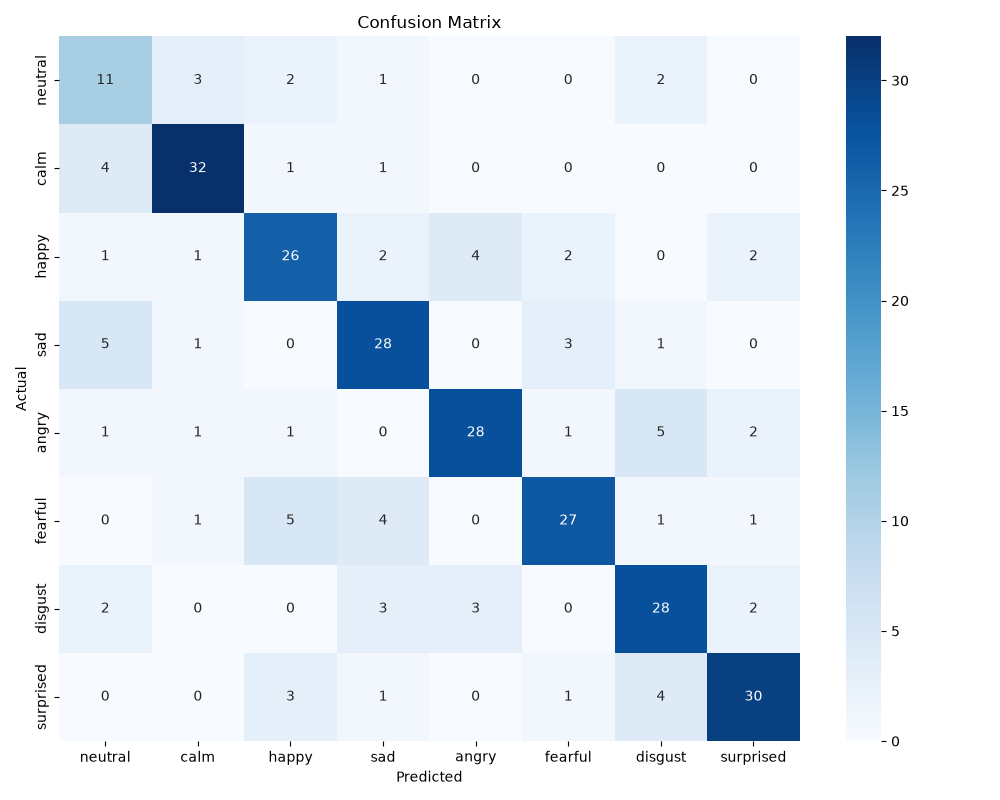
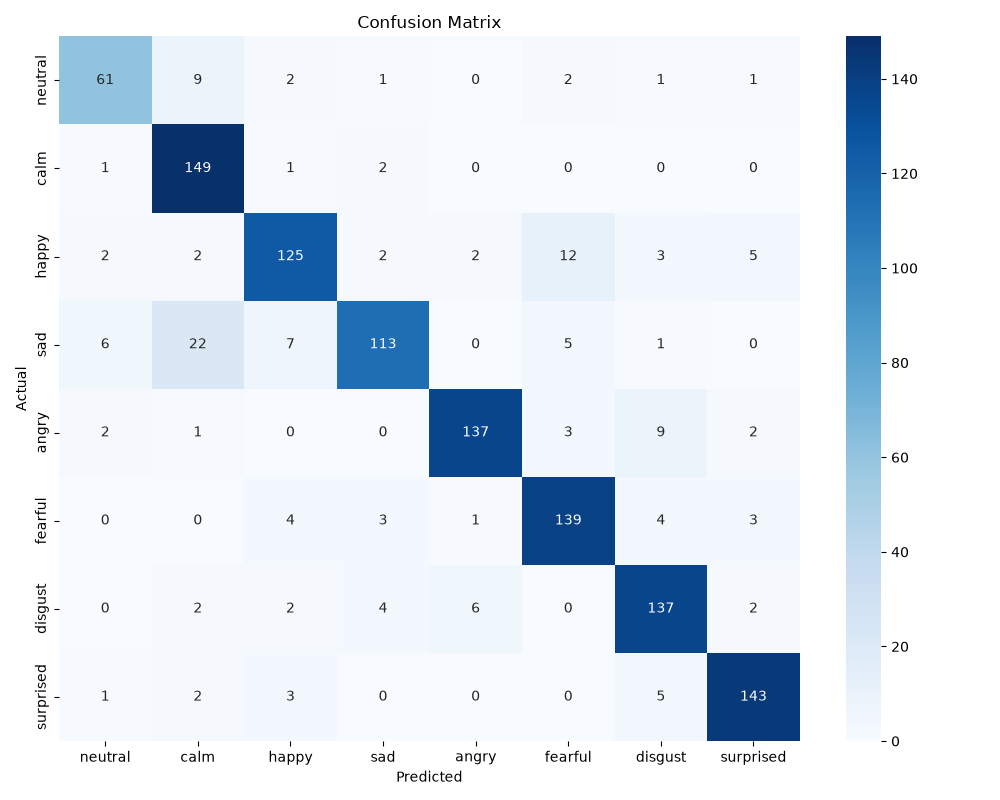
Optimize ensemble model with data augmentation - 87.15% accuracy

diff --git a/train.py b/train.py
@@ -11,9 +11,8 @@ import os
 import librosa
 
 # ── 1. Feature Extraction (Richer Features: 400+) ────────────────────────
-def extract_rich_features(file_path):
+def extract_rich_features(audio, sr):
     try:
-        audio, sr = librosa.load(file_path, duration=3.0, offset=0.5)
         features = []
         
         # 1. MFCCs mean + std + delta + delta2 → 40×4 = 160
@@ -70,19 +69,29 @@ def extract_rich_features(file_path):
 
         return np.array(features)
     except Exception as e:
-        print(f"Error processing {file_path}: {e}")
+        print(f"Error extracting features: {e}")
         return None
 
+def add_noise(data):
+    noise_amp = 0.035 * np.random.uniform() * np.amax(data)
+    return data + noise_amp * np.random.normal(size=data.shape[0])
+
+def stretch(data, rate=0.8):
+    return librosa.effects.time_stretch(y=data, rate=rate)
+
+def pitch(data, sr, pitch_factor=0.7):
+    return librosa.effects.pitch_shift(y=data, sr=sr, n_steps=pitch_factor)
+
 def load_or_extract_features():
-    features_file = "X_features_rich.npy"
-    labels_file = "y_labels_rich.npy"
+    features_file = "X_features_rich_aug.npy"
+    labels_file = "y_labels_rich_aug.npy"
     dataset_path = "dataset"
     
     if os.path.exists(features_file) and os.path.exists(labels_file):
-        print(f"Loading cached richer features from {features_file}...")
+        print(f"Loading cached richer augmented features from {features_file}...")
         return np.load(features_file), np.load(labels_file)
         
-    print("Extracting 400+ richer features from dataset. This may take a while...")
+    print("Extracting 400+ richer features with Data Augmentation (4x dataset size). This will take ~10 minutes...")
     X, y = [], []
     count = 0
     for actor_folder in sorted(os.listdir(dataset_path)):
@@ -94,18 +103,47 @@ def load_or_extract_features():
             if file.endswith('.wav'):
                 file_path = os.path.join(actor_path, file)
                 try:
-                    # RAVDESS format, emotion is 3rd part, 1-indexed. Make it 0-indexed.
                     emotion = int(file.split('-')[2]) - 1
                 except:
                     continue
                 
-                feat = extract_rich_features(file_path)
+                # Load Audio
+                try:
+                    audio, sr = librosa.load(file_path, duration=3.0, offset=0.5)
+                except Exception as e:
+                    print(f"Failed to load {file_path}")
+                    continue
+
+                # 1. Original
+                feat = extract_rich_features(audio, sr)
                 if feat is not None:
                     X.append(feat)
                     y.append(emotion)
-                    count += 1
-                    if count % 100 == 0:
-                        print(f"Processed {count} files...")
+                
+                # 2. Noise
+                noise_audio = add_noise(audio)
+                feat_noise = extract_rich_features(noise_audio, sr)
+                if feat_noise is not None:
+                    X.append(feat_noise)
+                    y.append(emotion)
+                
+                # 3. Stretch
+                stretch_audio = stretch(audio)
+                feat_stretch = extract_rich_features(stretch_audio, sr)
+                if feat_stretch is not None:
+                    X.append(feat_stretch)
+                    y.append(emotion)
+                
+                # 4. Pitch
+                pitch_audio = pitch(audio, sr)
+                feat_pitch = extract_rich_features(pitch_audio, sr)
+                if feat_pitch is not None:
+                    X.append(feat_pitch)
+                    y.append(emotion)
+
+                count += 1
+                if count % 50 == 0:
+                    print(f"Processed {count} original files (extracted {count * 4} samples)...")
                         
     X = np.array(X)
     y = np.array(y)